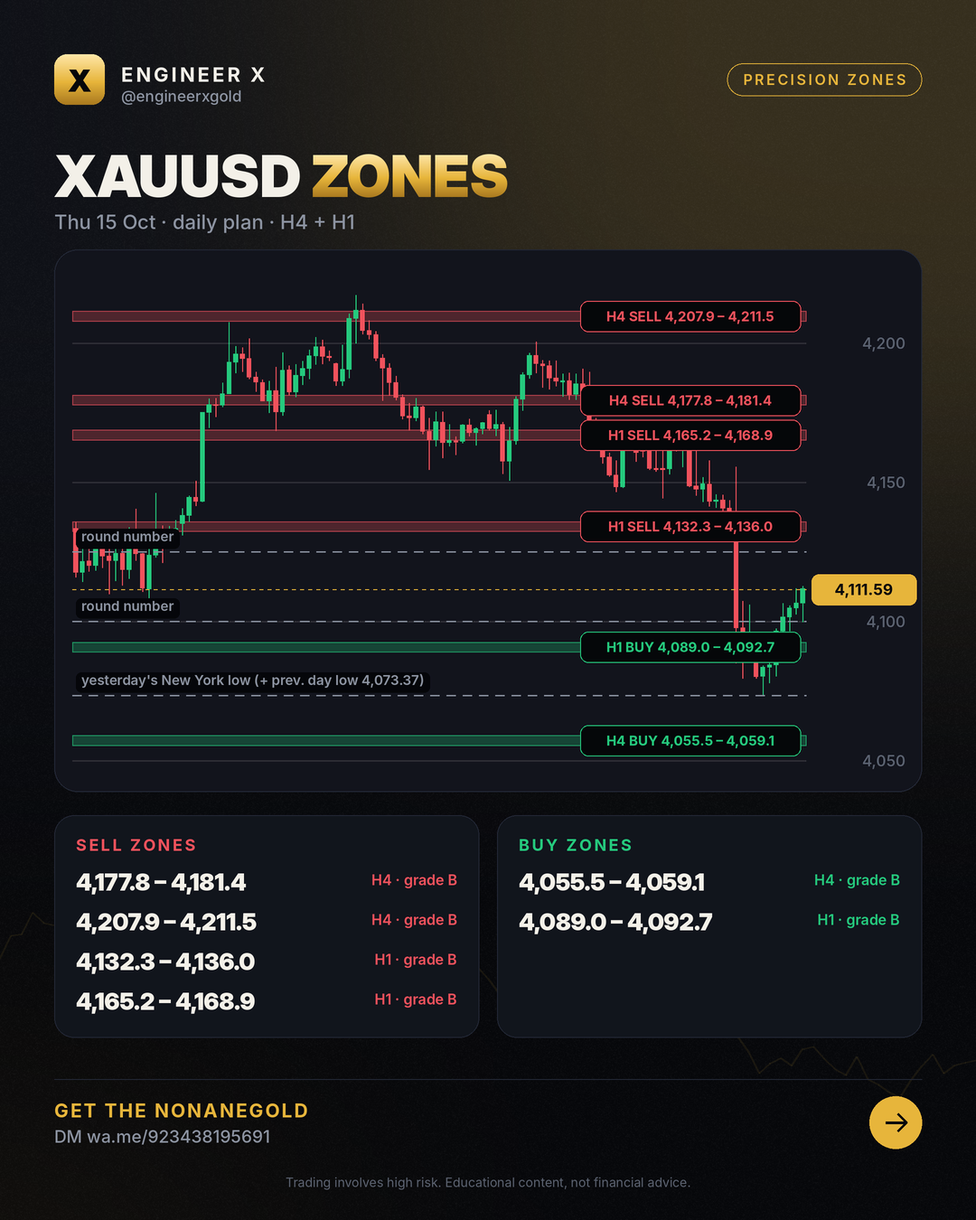
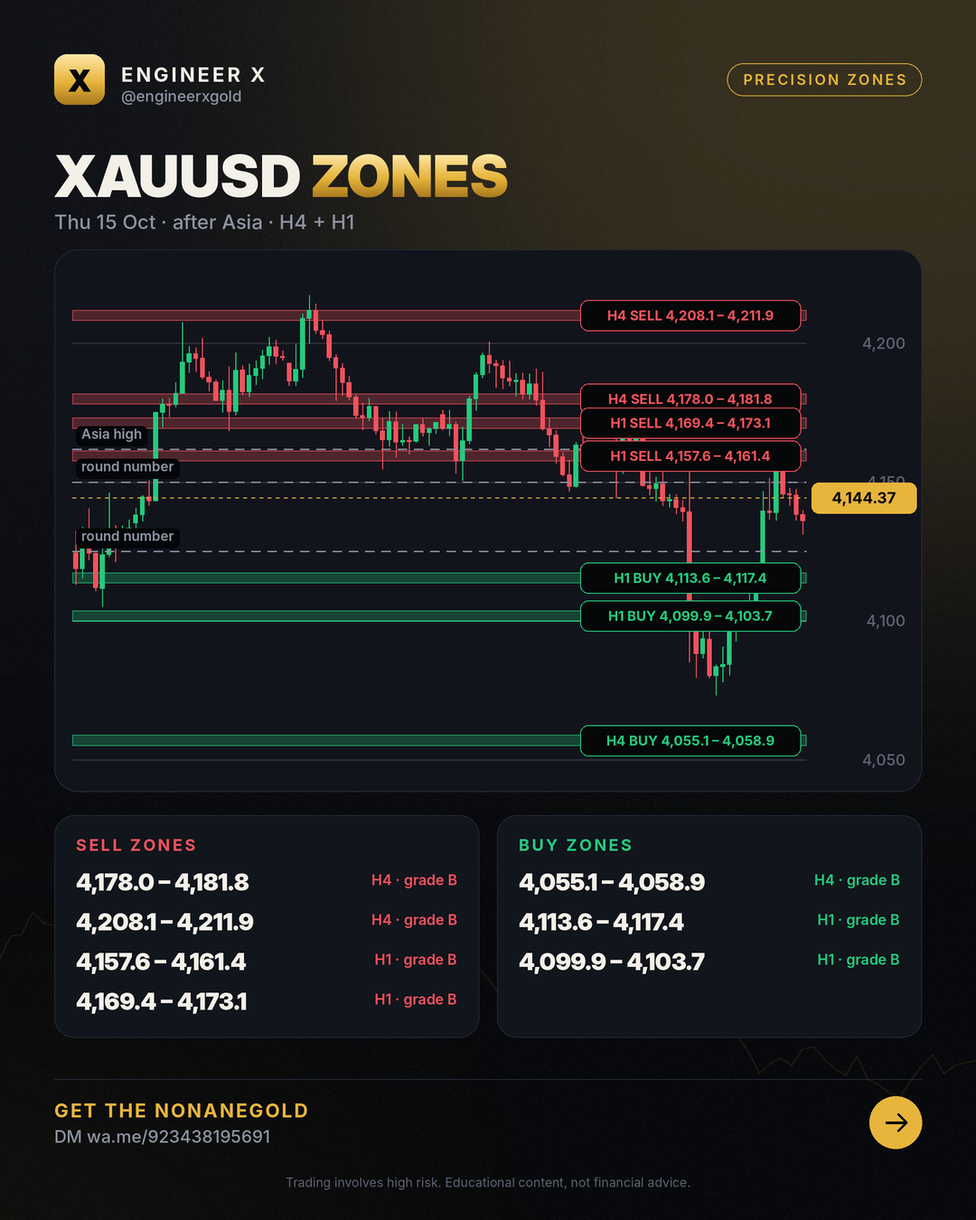
zones 2026-10-15 Thu 15 Oct · after Asia · H4 + H1

diff --git a/zones/2026-10-15/index.html b/zones/2026-10-15/index.html
@@ -4,7 +4,7 @@
 <meta charset="utf-8">
 <meta name="viewport" content="width=device-width,initial-scale=1">
 <title>Gold Price Today – 15 Oct 2026 (H4 + H1)</title>
-<meta name="description" content="XAUUSD buy and sell zones for 2026-10-15: narrow H4 and H1 bands with invalidation levels, updated after the Asian, London and New York sessions. Price 4,111.59.">
+<meta name="description" content="XAUUSD buy and sell zones for 2026-10-15: narrow H4 and H1 bands with invalidation levels, updated after the Asian, London and New York sessions. Price 4,144.37.">
 <meta name="robots" content="index,follow,max-image-preview:large,max-snippet:-1,max-video-preview:-1">
 <meta name="author" content="Engr. M Ahmad Mehmood">
 <link rel="canonical" href="https://engineerxgold.github.io/zones/2026-10-15/">
@@ -12,7 +12,7 @@
 <link rel="apple-touch-icon" href="../../img/logo.png">
 <meta property="og:site_name" content="Engineer X">
 <meta property="og:title" content="Gold Price Today – 15 Oct 2026 (H4 + H1)">
-<meta property="og:description" content="XAUUSD buy and sell zones for 2026-10-15: narrow H4 and H1 bands with invalidation levels, updated after the Asian, London and New York sessions. Price 4,111.59.">
+<meta property="og:description" content="XAUUSD buy and sell zones for 2026-10-15: narrow H4 and H1 bands with invalidation levels, updated after the Asian, London and New York sessions. Price 4,144.37.">
 <meta property="og:type" content="article">
 <meta property="og:url" content="https://engineerxgold.github.io/zones/2026-10-15/">
 <meta property="og:image" content="https://engineerxgold.github.io/zones/img/2026-10-15.png">
@@ -22,7 +22,7 @@
 <meta property="og:locale" content="en_US">
 <meta name="twitter:card" content="summary_large_image">
 <meta name="twitter:title" content="Gold Price Today – 15 Oct 2026 (H4 + H1)">
-<meta name="twitter:description" content="XAUUSD buy and sell zones for 2026-10-15: narrow H4 and H1 bands with invalidation levels, updated after the Asian, London and New York sessions. Price 4,111.59.">
+<meta name="twitter:description" content="XAUUSD buy and sell zones for 2026-10-15: narrow H4 and H1 bands with invalidation levels, updated after the Asian, London and New York sessions. Price 4,144.37.">
 <meta name="twitter:image" content="https://engineerxgold.github.io/zones/img/2026-10-15.png">
 <meta name="twitter:image:alt" content="Gold Price Today – 15 Oct 2026 (H4 + H1)">
 
@@ -32,7 +32,7 @@
 <link rel="preconnect" href="https://fonts.googleapis.com">
 <link rel="preconnect" href="https://fonts.gstatic.com" crossorigin>
 <link href="https://fonts.googleapis.com/css2?family=Inter:wght@400;500;600;800;900&display=swap" rel="stylesheet">
-<script type="application/ld+json">{"@context": "https://schema.org", "@type": "Organization", "@id": "https://engineerxgold.github.io/#organization", "name": "Engineer X", "url": "https://engineerxgold.github.io/", "logo": {"@type": "ImageObject", "url": "https://engineerxgold.github.io/img/logo.png", "width": 512, "height": 512}, "sameAs": ["https://t.me/engineerxgold"]}</script><script type="application/ld+json">{"@context": "https://schema.org", "@type": "Article", "headline": "Gold Price Today – 15 Oct 2026 (H4 + H1)", "datePublished": "2026-10-15T08:00:00+05:00", "dateModified": "2026-10-15T05:02:52+05:00", "author": {"@type": "Person", "@id": "https://engineerxgold.github.io/about/#author", "name": "Engr. M Ahmad Mehmood", "url": "https://engineerxgold.github.io/about/", "jobTitle": "MQL5 Expert Advisor developer and gold market analyst", "worksFor": {"@id": "https://engineerxgold.github.io/#organization"}}, "publisher": {"@id": "https://engineerxgold.github.io/#organization"}, "image": "https://engineerxgold.github.io/zones/img/2026-10-15.png", "mainEntityOfPage": "https://engineerxgold.github.io/zones/2026-10-15/"}</script>
+<script type="application/ld+json">{"@context": "https://schema.org", "@type": "Organization", "@id": "https://engineerxgold.github.io/#organization", "name": "Engineer X", "url": "https://engineerxgold.github.io/", "logo": {"@type": "ImageObject", "url": "https://engineerxgold.github.io/img/logo.png", "width": 512, "height": 512}, "sameAs": ["https://t.me/engineerxgold"]}</script><script type="application/ld+json">{"@context": "https://schema.org", "@type": "Article", "headline": "Gold Price Today – 15 Oct 2026 (H4 + H1)", "datePublished": "2026-10-15T08:00:00+05:00", "dateModified": "2026-10-15T12:46:30+05:00", "author": {"@type": "Person", "@id": "https://engineerxgold.github.io/about/#author", "name": "Engr. M Ahmad Mehmood", "url": "https://engineerxgold.github.io/about/", "jobTitle": "MQL5 Expert Advisor developer and gold market analyst", "worksFor": {"@id": "https://engineerxgold.github.io/#organization"}}, "publisher": {"@id": "https://engineerxgold.github.io/#organization"}, "image": "https://engineerxgold.github.io/zones/img/2026-10-15.png", "mainEntityOfPage": "https://engineerxgold.github.io/zones/2026-10-15/"}</script>
 
 <style>
 :root{--gold:#E7B53B;--gold-hi:#FFE7A8;--bg:#07080B;--bg2:#0E1016;--panel:#12151D;--line:#232836;--green:#25C97D;--red:#F0525C;--text:#F3F0E8;--muted:#8C93A1}
@@ -101,7 +101,7 @@ footer .fl a{color:var(--muted);margin-right:16px}
 <div class="wrap">
 <nav><a class="logo" href="../../"><b>X</b>Engineer X</a>
 <div class="links"><a href="../../zones/">Daily Zones</a><a href="../../blog/">Learn</a><a href="../../ea/">Gold EA</a><a href="../../about/">About</a><a class="cta" href="https://wa.me/923438195691">Get the EA</a></div></nav>
-<article><p class="crumbs"><a href="../../">Home</a> › <a href="../">Zones</a> › 2026-10-15</p><h1>Gold Price Today – 15 Oct 2026 (H4 + H1)</h1><p class="byline">Thu 15 Oct · daily plan · H4 + H1 · by Engr. M Ahmad Mehmood</p><img src="../img/2026-10-15.png" alt="XAUUSD zone map 2026-10-15" width="1080" height="1350" loading="eager"><h2>Zones</h2><div style="overflow-x:auto"><table style="width:100%;border-collapse:collapse;font-size:15px"><tr><th align=left>Zone</th><th align=left>Price band</th><th>Grade</th><th align=left>Invalid</th><th align=left>Why</th></tr><tr><td>H4 sell</td><td><b>4,177.78 – 4,181.45</b></td><td>B</td><td>above 4,188.79</td><td>beyond H4 swing high + yesterday&#x27;s Asia high + previous day high (stops rest there; sweeps often end here)</td></tr><tr><td>H4 sell</td><td><b>4,207.87 – 4,211.54</b></td><td>B</td><td>above 4,218.88</td><td>beyond H4 swing high (stops rest there; sweeps often end here)</td></tr><tr><td>H1 sell</td><td><b>4,132.34 – 4,136.01</b></td><td>B</td><td>above 4,143.35</td><td>beyond round number (stops rest there; sweeps often end here)</td></tr><tr><td>H1 sell</td><td><b>4,165.18 – 4,168.85</b></td><td>B</td><td>above 4,176.19</td><td>beyond yesterday&#x27;s London high + yesterday&#x27;s New York high (stops rest there; sweeps often end here)</td></tr><tr><td>H1 buy</td><td><b>4,088.99 – 4,092.66</b></td><td>B</td><td>below 4,081.65</td><td>beyond round number (stops rest there; sweeps often end here)</td></tr><tr><td>H4 buy</td><td><b>4,055.47 – 4,059.14</b></td><td>B</td><td>below 4,048.13</td><td>beyond H4 swing low + previous day low + yesterday&#x27;s New York low (stops rest there; sweeps often end here)</td></tr></table></div><h2>How to read this map</h2><p>Bands are where price is expected to react; they are not entries. An hourly close beyond the invalidation price ends the zone. Obvious highs and lows (listed as liquidity) are often swept first, so our zones sit just beyond them.</p><div class="ctabox"><h3>🤖 Trade the zones with the NonaneGold</h3><p>Free signals group access + setup help Message us and we will help you set it up.</p><div class="btns"><a class="btn gold" href="https://wa.me/923438195691">Get the EA on Telegram</a><a class="btn ghost" href="../../ea/">About the EA</a></div></div></article>
+<article><p class="crumbs"><a href="../../">Home</a> › <a href="../">Zones</a> › 2026-10-15</p><h1>Gold Price Today – 15 Oct 2026 (H4 + H1)</h1><p class="byline">Thu 15 Oct · after Asia · H4 + H1 · by Engr. M Ahmad Mehmood</p><img src="../img/2026-10-15.png" alt="XAUUSD zone map 2026-10-15" width="1080" height="1350" loading="eager"><h2>Zones</h2><div style="overflow-x:auto"><table style="width:100%;border-collapse:collapse;font-size:15px"><tr><th align=left>Zone</th><th align=left>Price band</th><th>Grade</th><th align=left>Invalid</th><th align=left>Why</th></tr><tr><td>H4 sell</td><td><b>4,178.01 – 4,181.80</b></td><td>B</td><td>above 4,189.37</td><td>beyond previous day high + H4 swing high (stops rest there; sweeps often end here)</td></tr><tr><td>H4 sell</td><td><b>4,208.10 – 4,211.89</b></td><td>B</td><td>above 4,219.46</td><td>beyond H4 swing high (stops rest there; sweeps often end here)</td></tr><tr><td>H1 sell</td><td><b>4,157.57 – 4,161.36</b></td><td>B</td><td>above 4,168.93</td><td>beyond round number (stops rest there; sweeps often end here)</td></tr><tr><td>H1 sell</td><td><b>4,169.35 – 4,173.14</b></td><td>B</td><td>above 4,180.71</td><td>beyond Asia high (stops rest there; sweeps often end here)</td></tr><tr><td>H1 buy</td><td><b>4,113.64 – 4,117.43</b></td><td>B</td><td>below 4,106.07</td><td>beyond round number (stops rest there; sweeps often end here)</td></tr><tr><td>H1 buy</td><td><b>4,099.93 – 4,103.72</b></td><td>B</td><td>below 4,092.36</td><td>beyond Asia low (stops rest there; sweeps often end here)</td></tr><tr><td>H4 buy</td><td><b>4,055.12 – 4,058.91</b></td><td>B</td><td>below 4,047.55</td><td>beyond H4 swing low + previous day low + yesterday&#x27;s New York low (stops rest there; sweeps often end here)</td></tr></table></div><h2>How to read this map</h2><p>Bands are where price is expected to react; they are not entries. An hourly close beyond the invalidation price ends the zone. Obvious highs and lows (listed as liquidity) are often swept first, so our zones sit just beyond them.</p><div class="ctabox"><h3>🤖 Trade the zones with the NonaneGold</h3><p>Free signals group access + setup help Message us and we will help you set it up.</p><div class="btns"><a class="btn gold" href="https://wa.me/923438195691">Get the EA on Telegram</a><a class="btn ghost" href="../../ea/">About the EA</a></div></div></article>
 <footer>
 <div class="warn"><b>Risk warning:</b> Trading gold, forex and CFDs carries a high risk of losing money and is not suitable for everyone. Past results do not guarantee future results. Everything on this site is educational and not financial advice. We are an introducing partner of our broker and may earn a commission on accounts opened through our link.</div>
 <p class="fl" style="margin-top:18px"><a href="../../about/">About &amp; methodology</a><a href="../../privacy.html">Privacy</a><a href="../../terms.html">Terms &amp; risk disclosure</a><a href="../../feed.xml">RSS</a><a href="https://t.me/engineerxgold">Telegram</a></p>

diff --git a/zones/index.html b/zones/index.html
@@ -4,7 +4,7 @@
 <meta charset="utf-8">
 <meta name="viewport" content="width=device-width,initial-scale=1">
 <title>XAUUSD Zones Today – Buy &amp; Sell Zones (H4, H1) | Engineer X</title>
-<meta name="description" content="XAUUSD buy and sell zones for 2026-10-15: narrow H4 and H1 bands with invalidation levels, updated after the Asian, London and New York sessions. Price 4,111.59.">
+<meta name="description" content="XAUUSD buy and sell zones for 2026-10-15: narrow H4 and H1 bands with invalidation levels, updated after the Asian, London and New York sessions. Price 4,144.37.">
 <meta name="robots" content="index,follow,max-image-preview:large,max-snippet:-1,max-video-preview:-1">
 <meta name="author" content="Engr. M Ahmad Mehmood">
 <link rel="canonical" href="https://engineerxgold.github.io/zones/">
@@ -12,7 +12,7 @@
 <link rel="apple-touch-icon" href="../img/logo.png">
 <meta property="og:site_name" content="Engineer X">
 <meta property="og:title" content="XAUUSD Zones Today – Buy &amp; Sell Zones (H4, H1) | Engineer X">
-<meta property="og:description" content="XAUUSD buy and sell zones for 2026-10-15: narrow H4 and H1 bands with invalidation levels, updated after the Asian, London and New York sessions. Price 4,111.59.">
+<meta property="og:description" content="XAUUSD buy and sell zones for 2026-10-15: narrow H4 and H1 bands with invalidation levels, updated after the Asian, London and New York sessions. Price 4,144.37.">
 <meta property="og:type" content="website">
 <meta property="og:url" content="https://engineerxgold.github.io/zones/">
 <meta property="og:image" content="https://engineerxgold.github.io/zones/img/2026-10-15.png">
@@ -22,7 +22,7 @@
 <meta property="og:locale" content="en_US">
 <meta name="twitter:card" content="summary_large_image">
 <meta name="twitter:title" content="XAUUSD Zones Today – Buy &amp; Sell Zones (H4, H1) | Engineer X">
-<meta name="twitter:description" content="XAUUSD buy and sell zones for 2026-10-15: narrow H4 and H1 bands with invalidation levels, updated after the Asian, London and New York sessions. Price 4,111.59.">
+<meta name="twitter:description" content="XAUUSD buy and sell zones for 2026-10-15: narrow H4 and H1 bands with invalidation levels, updated after the Asian, London and New York sessions. Price 4,144.37.">
 <meta name="twitter:image" content="https://engineerxgold.github.io/zones/img/2026-10-15.png">
 <meta name="twitter:image:alt" content="XAUUSD Zones Today – Buy &amp; Sell Zones (H4, H1) | Engineer X">
 
@@ -101,7 +101,7 @@ footer .fl a{color:var(--muted);margin-right:16px}
 <div class="wrap">
 <nav><a class="logo" href="../"><b>X</b>Engineer X</a>
 <div class="links"><a href="../zones/">Daily Zones</a><a href="../blog/">Learn</a><a href="../ea/">Gold EA</a><a href="../about/">About</a><a class="cta" href="https://wa.me/923438195691">Get the EA</a></div></nav>
-<section class="hero"><span class="chip">Updated Thu 15 Oct · daily plan · H4 + H1</span><h1>XAUUSD <span class="gold">precision zones</span></h1><p>XAUUSD buy and sell zones for 2026-10-15: narrow H4 and H1 bands with invalidation levels, updated after the Asian, London and New York sessions. Price 4,111.59.</p></section><img src="img/2026-10-15.png" alt="Latest XAUUSD zone map" width="1080" height="1350"><section><h2>Current zones</h2><div style="overflow-x:auto"><table style="width:100%;border-collapse:collapse;font-size:15px"><tr><th align=left>Zone</th><th align=left>Price band</th><th>Grade</th><th align=left>Invalid</th><th align=left>Why</th></tr><tr><td>H4 sell</td><td><b>4,177.78 – 4,181.45</b></td><td>B</td><td>above 4,188.79</td><td>beyond H4 swing high + yesterday&#x27;s Asia high + previous day high (stops rest there; sweeps often end here)</td></tr><tr><td>H4 sell</td><td><b>4,207.87 – 4,211.54</b></td><td>B</td><td>above 4,218.88</td><td>beyond H4 swing high (stops rest there; sweeps often end here)</td></tr><tr><td>H1 sell</td><td><b>4,132.34 – 4,136.01</b></td><td>B</td><td>above 4,143.35</td><td>beyond round number (stops rest there; sweeps often end here)</td></tr><tr><td>H1 sell</td><td><b>4,165.18 – 4,168.85</b></td><td>B</td><td>above 4,176.19</td><td>beyond yesterday&#x27;s London high + yesterday&#x27;s New York high (stops rest there; sweeps often end here)</td></tr><tr><td>H1 buy</td><td><b>4,088.99 – 4,092.66</b></td><td>B</td><td>below 4,081.65</td><td>beyond round number (stops rest there; sweeps often end here)</td></tr><tr><td>H4 buy</td><td><b>4,055.47 – 4,059.14</b></td><td>B</td><td>below 4,048.13</td><td>beyond H4 swing low + previous day low + yesterday&#x27;s New York low (stops rest there; sweeps often end here)</td></tr></table></div></section><section><h2>Honest scorecard</h2><div class="grid"><div class="card"><div class="n">47</div><p>zones published (30 days)</p></div><div class="card"><div class="n">16</div><p>held (moved 1 hourly ATR away)</p></div><div class="card"><div class="n">0</div><p>broke (hourly close beyond invalidation)</p></div><div class="card"><div class="n">100%</div><p>hold rate of decided zones</p></div></div></section><div class="ctabox"><h3>🤖 Trade the zones with the NonaneGold</h3><p>Free signals group access + setup help Message us and we will help you set it up.</p><div class="btns"><a class="btn gold" href="https://wa.me/923438195691">Get the EA on Telegram</a><a class="btn ghost" href="../ea/">About the EA</a></div></div><section><h2>Archive</h2><div class="grid posts"><a class="card" href="2026-10-15/"><span class="date">2026-10-15</span><h3>XAUUSD zones 2026-10-15</h3></a><a class="card" href="2026-10-14/"><span class="date">2026-10-14</span><h3>XAUUSD zones 2026-10-14</h3></a><a class="card" href="2026-10-13/"><span class="date">2026-10-13</span><h3>XAUUSD zones 2026-10-13</h3></a></div></section>
+<section class="hero"><span class="chip">Updated Thu 15 Oct · after Asia · H4 + H1</span><h1>XAUUSD <span class="gold">precision zones</span></h1><p>XAUUSD buy and sell zones for 2026-10-15: narrow H4 and H1 bands with invalidation levels, updated after the Asian, London and New York sessions. Price 4,144.37.</p></section><img src="img/2026-10-15.png" alt="Latest XAUUSD zone map" width="1080" height="1350"><section><h2>Current zones</h2><div style="overflow-x:auto"><table style="width:100%;border-collapse:collapse;font-size:15px"><tr><th align=left>Zone</th><th align=left>Price band</th><th>Grade</th><th align=left>Invalid</th><th align=left>Why</th></tr><tr><td>H4 sell</td><td><b>4,178.01 – 4,181.80</b></td><td>B</td><td>above 4,189.37</td><td>beyond previous day high + H4 swing high (stops rest there; sweeps often end here)</td></tr><tr><td>H4 sell</td><td><b>4,208.10 – 4,211.89</b></td><td>B</td><td>above 4,219.46</td><td>beyond H4 swing high (stops rest there; sweeps often end here)</td></tr><tr><td>H1 sell</td><td><b>4,157.57 – 4,161.36</b></td><td>B</td><td>above 4,168.93</td><td>beyond round number (stops rest there; sweeps often end here)</td></tr><tr><td>H1 sell</td><td><b>4,169.35 – 4,173.14</b></td><td>B</td><td>above 4,180.71</td><td>beyond Asia high (stops rest there; sweeps often end here)</td></tr><tr><td>H1 buy</td><td><b>4,113.64 – 4,117.43</b></td><td>B</td><td>below 4,106.07</td><td>beyond round number (stops rest there; sweeps often end here)</td></tr><tr><td>H1 buy</td><td><b>4,099.93 – 4,103.72</b></td><td>B</td><td>below 4,092.36</td><td>beyond Asia low (stops rest there; sweeps often end here)</td></tr><tr><td>H4 buy</td><td><b>4,055.12 – 4,058.91</b></td><td>B</td><td>below 4,047.55</td><td>beyond H4 swing low + previous day low + yesterday&#x27;s New York low (stops rest there; sweeps often end here)</td></tr></table></div></section><section><h2>Honest scorecard</h2><div class="grid"><div class="card"><div class="n">53</div><p>zones published (30 days)</p></div><div class="card"><div class="n">17</div><p>held (moved 1 hourly ATR away)</p></div><div class="card"><div class="n">2</div><p>broke (hourly close beyond invalidation)</p></div><div class="card"><div class="n">89%</div><p>hold rate of decided zones</p></div></div></section><div class="ctabox"><h3>🤖 Trade the zones with the NonaneGold</h3><p>Free signals group access + setup help Message us and we will help you set it up.</p><div class="btns"><a class="btn gold" href="https://wa.me/923438195691">Get the EA on Telegram</a><a class="btn ghost" href="../ea/">About the EA</a></div></div><section><h2>Archive</h2><div class="grid posts"><a class="card" href="2026-10-15/"><span class="date">2026-10-15</span><h3>XAUUSD zones 2026-10-15</h3></a><a class="card" href="2026-10-14/"><span class="date">2026-10-14</span><h3>XAUUSD zones 2026-10-14</h3></a><a class="card" href="2026-10-13/"><span class="date">2026-10-13</span><h3>XAUUSD zones 2026-10-13</h3></a></div></section>
 <footer>
 <div class="warn"><b>Risk warning:</b> Trading gold, forex and CFDs carries a high risk of losing money and is not suitable for everyone. Past results do not guarantee future results. Everything on this site is educational and not financial advice. We are an introducing partner of our broker and may earn a commission on accounts opened through our link.</div>
 <p class="fl" style="margin-top:18px"><a href="../about/">About &amp; methodology</a><a href="../privacy.html">Privacy</a><a href="../terms.html">Terms &amp; risk disclosure</a><a href="../feed.xml">RSS</a><a href="https://t.me/engineerxgold">Telegram</a></p>

diff --git a/index.html b/index.html
@@ -101,7 +101,7 @@ footer .fl a{color:var(--muted);margin-right:16px}
 <div class="wrap">
 <nav><a class="logo" href="./"><b>X</b>Engineer X</a>
 <div class="links"><a href="./zones/">Daily Zones</a><a href="./blog/">Learn</a><a href="./ea/">Gold EA</a><a href="./about/">About</a><a class="cta" href="https://wa.me/923438195691">Get the EA</a></div></nav>
-<section class="hero"><span class="chip">XAUUSD · H4 + H1 · every session</span><h1>Gold <span class="gold">precision zones</span>, updated after every session</h1><p>Narrow buy and sell zones with clear invalidation, a scorecard of every result, and the NonaneGold for traders who want it automated.</p><div class="btns"><a class="btn gold" href="zones/">See today's zones</a><a class="btn ghost" href="https://wa.me/923438195691">Get the EA</a></div></section><section><h2>Latest map Thu 15 Oct · daily plan · H4 + H1</h2><img src="zones/img/2026-10-15.png" alt="Latest XAUUSD zones" width="1080" height="1350"></section><div class="ctabox"><h3>🤖 Trade the zones with the NonaneGold</h3><p>Free signals group access + setup help Message us and we will help you set it up.</p><div class="btns"><a class="btn gold" href="https://wa.me/923438195691">Get the EA on Telegram</a><a class="btn ghost" href="ea/">About the EA</a></div></div><section><h2>Learn</h2><div class="grid posts"><a class="card" href="blog/gold-price-today-navigating-h4-downtrend-key-zones/"><span class="date">2026-10-15</span><h3>Gold Price Today: Navigating H4 Downtrend &amp; Key Zones</h3></a><a class="card" href="blog/gold-supply-and-demand-zones-h4-h1-trading-map/"><span class="date">2026-10-14</span><h3>Gold Supply and Demand Zones: H4 &amp; H1 Trading Map</h3></a><a class="card" href="blog/gold-trading-strategy-for-zones-and-liquidity-in-xauusd/"><span class="date">2026-10-13</span><h3>Gold trading strategy for zones and liquidity in XAUUSD</h3></a><a class="card" href="blog/stop-loss-ke-baghair-trading-ticket-bina-safar/"><span class="date">2026-10-07</span><h3>Stop loss ke baghair trading = ticket bina safar</h3></a><a class="card" href="blog/gold-ke-3-sab-se-active-sessions/"><span class="date">2026-10-07</span><h3>Gold ke 3 sab se active sessions</h3></a><a class="card" href="blog/the-math-of-recovery/"><span class="date">2026-10-08</span><h3>The math of recovery</h3></a></div></section><section><h2>FAQ</h2><details><summary>What is a precision zone?</summary><p>A narrow price band (about a quarter of the hourly range) where gold started a strong move or where a sweep of obvious liquidity usually ends. Each zone has an invalidation price.</p></details><details><summary>How often are the zones updated?</summary><p>A daily plan at the Asian open, then after the Asian, London and New York sessions.</p></details><details><summary>Are these trade signals?</summary><p>No. Zones are areas to watch. Wait for your own confirmation and manage risk.</p></details><details><summary>How do I get the Gold EA?</summary><p>Message us on Telegram or WhatsApp; we answer and help with the setup.</p></details></section>
+<section class="hero"><span class="chip">XAUUSD · H4 + H1 · every session</span><h1>Gold <span class="gold">precision zones</span>, updated after every session</h1><p>Narrow buy and sell zones with clear invalidation, a scorecard of every result, and the NonaneGold for traders who want it automated.</p><div class="btns"><a class="btn gold" href="zones/">See today's zones</a><a class="btn ghost" href="https://wa.me/923438195691">Get the EA</a></div></section><section><h2>Latest map Thu 15 Oct · after Asia · H4 + H1</h2><img src="zones/img/2026-10-15.png" alt="Latest XAUUSD zones" width="1080" height="1350"></section><div class="ctabox"><h3>🤖 Trade the zones with the NonaneGold</h3><p>Free signals group access + setup help Message us and we will help you set it up.</p><div class="btns"><a class="btn gold" href="https://wa.me/923438195691">Get the EA on Telegram</a><a class="btn ghost" href="ea/">About the EA</a></div></div><section><h2>Learn</h2><div class="grid posts"><a class="card" href="blog/gold-price-today-navigating-h4-downtrend-key-zones/"><span class="date">2026-10-15</span><h3>Gold Price Today: Navigating H4 Downtrend &amp; Key Zones</h3></a><a class="card" href="blog/gold-supply-and-demand-zones-h4-h1-trading-map/"><span class="date">2026-10-14</span><h3>Gold Supply and Demand Zones: H4 &amp; H1 Trading Map</h3></a><a class="card" href="blog/gold-trading-strategy-for-zones-and-liquidity-in-xauusd/"><span class="date">2026-10-13</span><h3>Gold trading strategy for zones and liquidity in XAUUSD</h3></a><a class="card" href="blog/stop-loss-ke-baghair-trading-ticket-bina-safar/"><span class="date">2026-10-07</span><h3>Stop loss ke baghair trading = ticket bina safar</h3></a><a class="card" href="blog/gold-ke-3-sab-se-active-sessions/"><span class="date">2026-10-07</span><h3>Gold ke 3 sab se active sessions</h3></a><a class="card" href="blog/the-math-of-recovery/"><span class="date">2026-10-08</span><h3>The math of recovery</h3></a></div></section><section><h2>FAQ</h2><details><summary>What is a precision zone?</summary><p>A narrow price band (about a quarter of the hourly range) where gold started a strong move or where a sweep of obvious liquidity usually ends. Each zone has an invalidation price.</p></details><details><summary>How often are the zones updated?</summary><p>A daily plan at the Asian open, then after the Asian, London and New York sessions.</p></details><details><summary>Are these trade signals?</summary><p>No. Zones are areas to watch. Wait for your own confirmation and manage risk.</p></details><details><summary>How do I get the Gold EA?</summary><p>Message us on Telegram or WhatsApp; we answer and help with the setup.</p></details></section>
 <footer>
 <div class="warn"><b>Risk warning:</b> Trading gold, forex and CFDs carries a high risk of losing money and is not suitable for everyone. Past results do not guarantee future results. Everything on this site is educational and not financial advice. We are an introducing partner of our broker and may earn a commission on accounts opened through our link.</div>
 <p class="fl" style="margin-top:18px"><a href="./about/">About &amp; methodology</a><a href="./privacy.html">Privacy</a><a href="./terms.html">Terms &amp; risk disclosure</a><a href="./feed.xml">RSS</a><a href="https://t.me/engineerxgold">Telegram</a></p>
